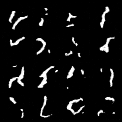
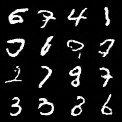
version_3

diff --git a/models/unet.py b/models/unet.py
@@ -1,6 +1,5 @@
+import math
 import torch
-import torch.nn as nn
-
 import torch.nn as nn
 
 
@@ -17,25 +16,28 @@ class SinusoidalPositionEmbeddings(nn.Module):
         embeddings = time[:, None].float() * embeddings[None, :]
         embeddings = torch.cat((embeddings.sin(), embeddings.cos()), dim=-1)
         return embeddings
-class TimeEmbedding(nn.Module):
-    def __init__(self, emb_dim):
+
+
+class DoubleConv(nn.Module):
+    def __init__(self, in_channels, out_channels):
         super().__init__()
         self.net = nn.Sequential(
-            nn.Linear(1, emb_dim),
+            nn.Conv2d(in_channels, out_channels, 3, padding=1),
+            nn.GroupNorm(8, out_channels),
             nn.ReLU(),
-            nn.Linear(emb_dim, emb_dim)
+            nn.Conv2d(out_channels, out_channels, 3, padding=1),
+            nn.GroupNorm(8, out_channels),
+            nn.ReLU()
         )
 
-    def forward(self, t):
-        t = t.float().unsqueeze(-1)
-        return self.net(t)
+    def forward(self, x):
+        return self.net(x)
 
 
 class SimpleUNet(nn.Module):
     def __init__(self, time_dim=128):
         super().__init__()
 
-        # self.time_mlp = TimeEmbedding(time_dim)
         self.time_mlp = nn.Sequential(
             SinusoidalPositionEmbeddings(time_dim),
             nn.Linear(time_dim, time_dim),
@@ -43,54 +45,47 @@ class SimpleUNet(nn.Module):
             nn.Linear(time_dim, time_dim)
         )
 
-        self.down1 = nn.Sequential(
-            nn.Conv2d(1, 64, 3, padding=1),
-            nn.ReLU(),
-            nn.Conv2d(64, 64, 3, padding=1),
-            nn.ReLU()
-        )
+        self.down1 = DoubleConv(1, 64)
+        self.pool1 = nn.MaxPool2d(2)
 
-        self.pool = nn.MaxPool2d(2)
+        self.down2 = DoubleConv(64, 128)
+        self.pool2 = nn.MaxPool2d(2)
 
-        self.down2 = nn.Sequential(
-            nn.Conv2d(64, 128, 3, padding=1),
-            nn.ReLU(),
-            nn.Conv2d(128, 128, 3, padding=1),
-            nn.ReLU()
-        )
+        self.bottleneck = DoubleConv(128, 256)
 
-        self.up = nn.ConvTranspose2d(128, 64, 2, stride=2)
+        self.up1 = nn.ConvTranspose2d(256, 128, 2, stride=2)
+        self.conv_up1 = DoubleConv(256, 128)
 
-        self.up_block = nn.Sequential(
-            nn.Conv2d(128, 64, 3, padding=1),
-            nn.ReLU(),
-            nn.Conv2d(64, 64, 3, padding=1),
-            nn.ReLU()
-        )
+        self.up2 = nn.ConvTranspose2d(128, 64, 2, stride=2)
+        self.conv_up2 = DoubleConv(128, 64)
 
         self.out = nn.Conv2d(64, 1, 1)
 
         self.time_to_64 = nn.Linear(time_dim, 64)
         self.time_to_128 = nn.Linear(time_dim, 128)
-
+        self.time_to_256 = nn.Linear(time_dim, 256)
 
     def forward(self, x, t):
         t_emb = self.time_mlp(t)
 
-        t1 = self.time_to_64(t_emb).unsqueeze(-1).unsqueeze(-1)
-        t2 = self.time_to_128(t_emb).unsqueeze(-1).unsqueeze(-1)
+        t64 = self.time_to_64(t_emb).unsqueeze(-1).unsqueeze(-1)
+        t128 = self.time_to_128(t_emb).unsqueeze(-1).unsqueeze(-1)
+        t256 = self.time_to_256(t_emb).unsqueeze(-1).unsqueeze(-1)
 
-        x1 = self.down1(x)
-        x1 = x1 + t1
+        x1 = self.down1(x) + t64
+        x2 = self.pool1(x1)
 
-        x2 = self.pool(x1)
-        x3 = self.down2(x2)
-        x3 = x3 + t2
+        x3 = self.down2(x2) + t128
+        x4 = self.pool2(x3)
 
-        x4 = self.up(x3)
-        x_cat = torch.cat([x4, x1], dim=1)
+        x5 = self.bottleneck(x4) + t256
 
-        out = self.up_block(x_cat)
-        out = self.out(out)
+        x = self.up1(x5)
+        x = torch.cat([x, x3], dim=1)
+        x = self.conv_up1(x)
 
-        return out
+        x = self.up2(x)
+        x = torch.cat([x, x1], dim=1)
+        x = self.conv_up2(x)
+
+        return self.out(x)

diff --git a/train.py b/train.py
@@ -50,8 +50,8 @@ def main():
 
             if i % 100 == 0:
                 print(f"Epoch [{epoch+1}/{epochs}] Batch [{i}/{len(dataloader)}] Loss: {loss.item():.4f}")
-            scheduler.step()
-            print(f"Epoch [{epoch + 1}/{epochs}] Learning Rate: {scheduler.get_last_lr()[0]:.8f}")
+        scheduler.step()
+        print(f"Epoch [{epoch + 1}/{epochs}] Learning Rate: {scheduler.get_last_lr()[0]:.8f}")
     torch.save(model.state_dict(), "outputs/ddpm_unet_mnist.pth")
     print("Training finished.")
 
